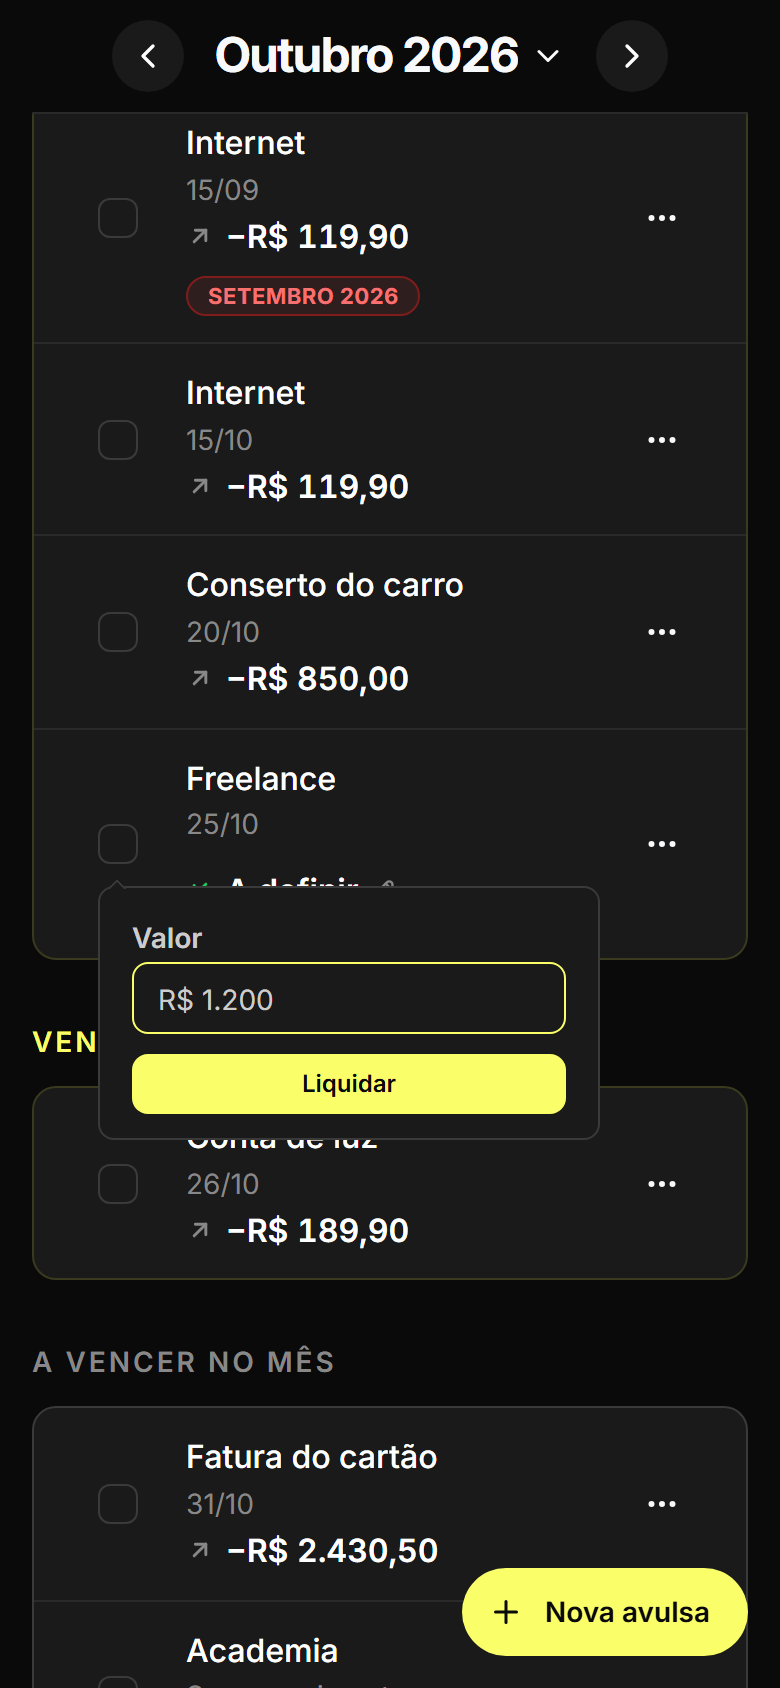
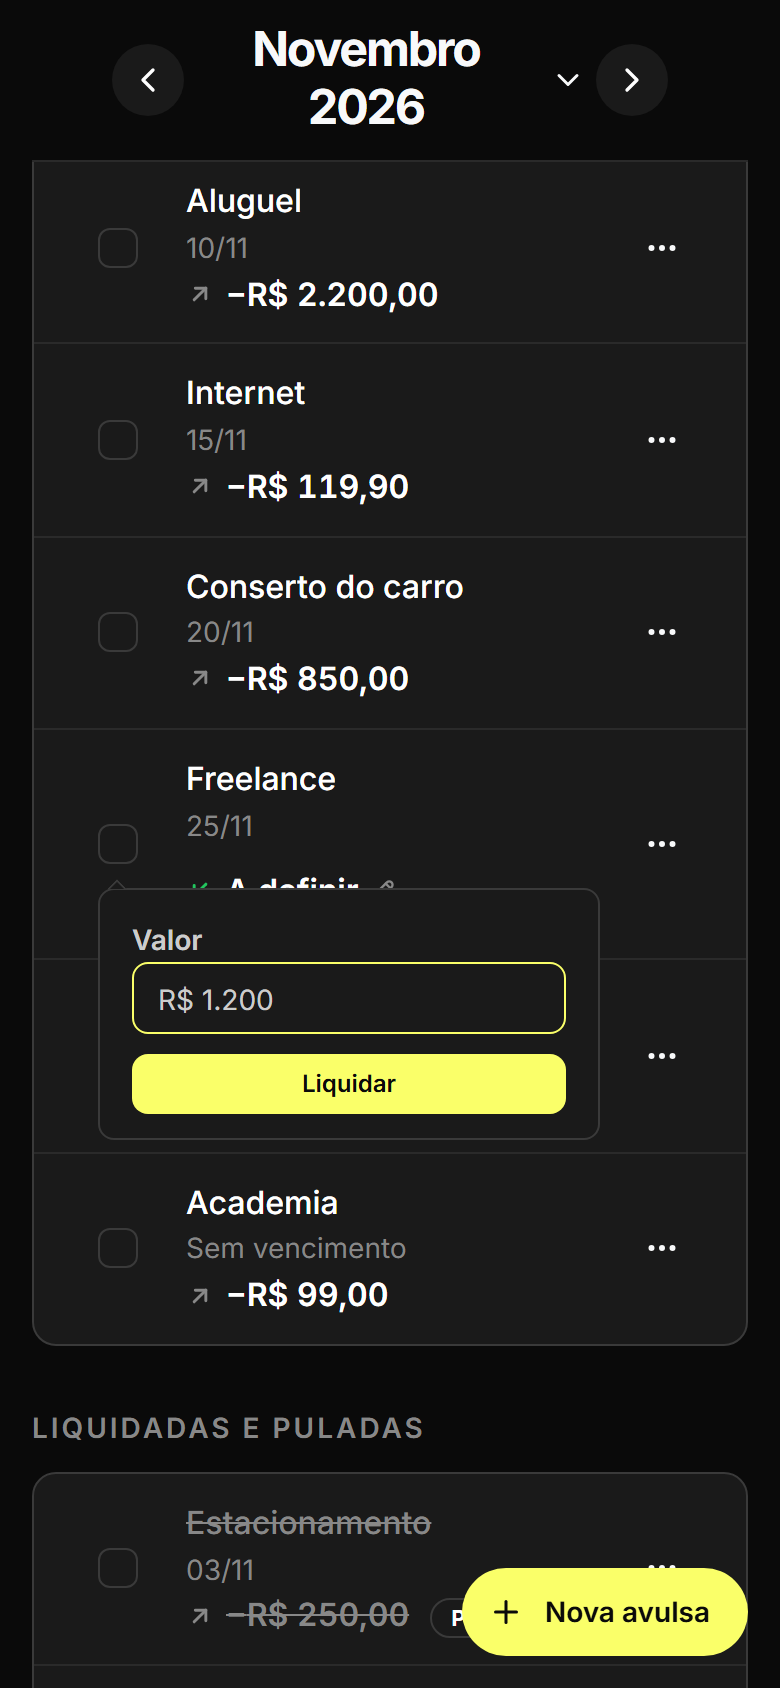
feat(web): strike through skipped occurrences (#103)
Their description and amount are struck through and dimmed, in the list
and the table; struck through and grey already means "left out" on the
trend's legend. A skipped occurrence asks for nothing, so its "A definir"
is plain text rather than the button.

diff --git a/apps/web/src/occurrence-row-parts.tsx b/apps/web/src/occurrence-row-parts.tsx
@@ -1,4 +1,12 @@
-import { Badge, Box, Button, Group, Text, VisuallyHidden } from "@mantine/core";
+import {
+  Badge,
+  Box,
+  Button,
+  Group,
+  Text,
+  VisuallyHidden,
+  type TextProps,
+} from "@mantine/core";
 import {
   directionLabel,
   type PeriodItem,
@@ -74,9 +82,23 @@ export function FailureNotice({
   );
 }
 
+/** The row's description; a skipped occurrence's is struck through and dimmed. */
+export function Description({
+  item,
+  ...props
+}: { item: PeriodItem } & TextProps) {
+  const skipped = item.status === "SKIPPED";
+  return (
+    <Text c={skipped ? "dimmed" : "bright"} fw={500} {...props}>
+      {skipped ? <s>{item.description}</s> : item.description}
+    </Text>
+  );
+}
+
 /**
  * The amount, led by a sign and an arrow so direction never rests on colour
- * alone; "A definir" is a button that opens the edit dialog to fill it in.
+ * alone; "A definir" is a button that opens the edit dialog to fill it in. A
+ * skipped occurrence's is struck through and dimmed, and asks for nothing.
  */
 export function Amount({
   item,
@@ -87,12 +109,25 @@ export function Amount({
   showDirection?: boolean;
 }) {
   const inflow = item.direction === "INFLOW";
+  const skipped = item.status === "SKIPPED";
   const direction = showDirection && (
     <>
-      <DirectionIcon inflow={inflow} />
+      <DirectionIcon inflow={inflow} dimmed={skipped} />
       <VisuallyHidden>{directionLabel(item)}</VisuallyHidden>
     </>
   );
+  if (skipped) {
+    return (
+      <Group gap={6} wrap="nowrap" className={classes.amount}>
+        {direction}
+        <Text fw={600} c="dimmed" span>
+          <s>
+            <AmountFigure item={item} />
+          </s>
+        </Text>
+      </Group>
+    );
+  }
   if (item.amount === null) {
     return (
       <EditOccurrenceButton
@@ -118,10 +153,19 @@ export function Amount({
     <Group gap={6} wrap="nowrap" className={classes.amount}>
       {direction}
       <Text fw={600} c={inflow ? "var(--mensal-color-inflow)" : "bright"} span>
-        <span aria-hidden="true">{inflow ? "+" : "−"}</span>
-        {formatAmount(item.amount)}
+        <AmountFigure item={item} />
       </Text>
     </Group>
+  );
+}
+
+function AmountFigure({ item }: { item: PeriodItem }) {
+  if (item.amount === null) return "A definir";
+  return (
+    <>
+      <span aria-hidden="true">{item.direction === "INFLOW" ? "+" : "−"}</span>
+      {formatAmount(item.amount)}
+    </>
   );
 }
 
@@ -150,13 +194,20 @@ export function RowMenu({
 }
 
 /** The arrow that leads an amount or a Tipo cell; never the only cue. */
-export function DirectionIcon({ inflow }: { inflow: boolean }) {
+export function DirectionIcon({
+  inflow,
+  dimmed = false,
+}: {
+  inflow: boolean;
+  /** Keeps the arrow of a skipped amount out of the inflow's colour. */
+  dimmed?: boolean;
+}) {
   const Icon = inflow ? IconArrowDownLeft : IconArrowUpRight;
   return (
     <Icon
       size={14}
       stroke={2.5}
-      color={inflow ? "var(--mensal-color-inflow)" : undefined}
+      color={inflow && !dimmed ? "var(--mensal-color-inflow)" : undefined}
       style={{ flex: "none", color: "var(--mantine-color-dimmed)" }}
       aria-hidden="true"
     />

diff --git a/apps/web/tests/groups.test.tsx b/apps/web/tests/groups.test.tsx
@@ -55,6 +55,61 @@ async function act(user: UserEvent, description: string, name: string) {
   );
 }
 
+/** The text struck through in the row `description`. */
+function struck(description: string) {
+  // Within a row: a notice about the change names it too.
+  const row = screen
+    .getByText(description, { selector: "li *" })
+    .closest("li")!;
+  return [...row.querySelectorAll("s")].map((text) =>
+    text.textContent?.replace(/\s/g, " ")
+  );
+}
+
+describe("a skipped occurrence", () => {
+  it("has its description and amount struck through, until it is resumed", async () => {
+    const user = userEvent.setup({ advanceTimers: vi.advanceTimersByTime });
+    api.addOccurrence(email, {
+      description: "Academia",
+      amount: 15000,
+      status: "SKIPPED",
+    });
+    api.addOccurrence(email, {
+      description: "Aluguel",
+      amount: 220000,
+      status: "SETTLED",
+      settledAt: "2026-10-09",
+    });
+    openApp(api, "/");
+    await screen.findByText("Academia");
+
+    expect(struck("Academia")).toEqual(["Academia", "−R$ 150,00"]);
+    expect(struck("Aluguel")).toEqual([]);
+
+    await act(user, "Academia", "Retomar");
+
+    await waitFor(() => expect(struck("Academia")).toEqual([]));
+  });
+
+  it("asks for no amount to be defined, and can still be edited", async () => {
+    api.addOccurrence(email, {
+      description: "Academia",
+      amount: null,
+      status: "SKIPPED",
+    });
+    openApp(api, "/");
+    await screen.findByText("Academia");
+
+    expect(struck("Academia")).toEqual(["Academia", "A definir"]);
+    expect(
+      screen.queryByRole("button", { name: "Definir valor de Academia" })
+    ).toBeNull();
+    expect(
+      screen.getByRole("button", { name: "Editar Academia" })
+    ).toBeInTheDocument();
+  });
+});
+
 describe("the month's groups", () => {
   it("groups the occurrences into overdue, due today, upcoming, and settled or skipped, in that order", async () => {
     api.addOccurrence(email, {

diff --git a/apps/web/tests/table-view.test.tsx b/apps/web/tests/table-view.test.tsx
@@ -151,6 +151,35 @@ describe("the table", () => {
     api.setPreferences(email, { occurrenceView: "table" });
   });
 
+  it("strikes through only the description and amount of a skipped occurrence", async () => {
+    api.addOccurrence(email, {
+      description: "Seguro",
+      amount: 15000,
+      dueDate: "2026-10-28",
+      status: "SKIPPED",
+    });
+    api.addOccurrence(email, {
+      description: "Salário",
+      direction: "INFLOW",
+      dueDate: null,
+      amount: 500000,
+      status: "SETTLED",
+      settledAt: "2026-10-05",
+    });
+    openApp(api, "/");
+
+    const [skipped, settled] = within(await screen.findByRole("table"))
+      .getAllByRole("row")
+      .slice(1);
+    const struck = (row: HTMLElement) =>
+      [...row.querySelectorAll("s")].map((text) =>
+        text.textContent?.replace(/\s/g, " ")
+      );
+
+    expect(struck(skipped!)).toEqual(["Seguro", "−R$ 150,00"]);
+    expect(struck(settled!)).toEqual([]);
+  });
+
   it("shows every column of each occurrence, in the list's group order", async () => {
     api.addOccurrence(email, {
       description: "Escola",

diff --git a/apps/web/src/occurrence-table.tsx b/apps/web/src/occurrence-table.tsx
@@ -1,4 +1,4 @@
-import { Badge, Box, Group, Paper, Table, Text } from "@mantine/core";
+import { Badge, Box, Group, Paper, Table } from "@mantine/core";
 import { VisuallyHidden } from "@mantine/core";
 import {
   directionLabel,
@@ -14,6 +14,7 @@ import { formatDate } from "./format.ts";
 import { occurrenceRows, type OccurrenceRow } from "./occurrence-rows.ts";
 import {
   Amount,
+  Description,
   DirectionIcon,
   FailureNotice,
   overdueBadge,
@@ -117,9 +118,7 @@ function TableRow({
         </Table.Td>
         <Table.Td>
           <EditOccurrenceButton item={item} className={classes.describe}>
-            <Text c="bright" fw={500} className={classes.clip}>
-              {item.description}
-            </Text>
+            <Description item={item} className={classes.clip} />
           </EditOccurrenceButton>
         </Table.Td>
         <Table.Td className={classes.nowrap}>

diff --git a/apps/web/src/month.tsx b/apps/web/src/month.tsx
@@ -51,6 +51,7 @@ import { NewOneOffButton } from "./new-one-off.tsx";
 import { groupOccurrences, type OccurrenceGroup } from "./occurrence-groups.ts";
 import {
   Amount,
+  Description,
   FailureNotice,
   RowMenu,
   StatusBadge,
@@ -649,9 +650,7 @@ function Row({
           <Box className={classes.text}>
             <EditOccurrenceButton item={item}>
               <Stack gap={0} miw={0}>
-                <Text c="bright" fw={500} truncate>
-                  {item.description}
-                </Text>
+                <Description item={item} truncate />
                 <Text fz="sm" c="dimmed">
                   {item.dueDate === null
                     ? "Sem vencimento"

diff --git a/apps/guide/index.html b/apps/guide/index.html
@@ -180,8 +180,9 @@
             </li>
             <li>
               Para pular a conta neste mês, abra o menu
-              <strong>⋯</strong> dela e escolha <strong>Pular</strong>. No mesmo
-              menu, <strong>Retomar</strong> desfaz o pulo.
+              <strong>⋯</strong> dela e escolha <strong>Pular</strong>. A conta
+              fica riscada em Liquidadas e puladas. No mesmo menu,
+              <strong>Retomar</strong> desfaz o pulo.
             </li>
             <li>
               Mudou de ideia? O aviso que aparece embaixo tem

diff --git a/DESIGN.md b/DESIGN.md
@@ -270,7 +270,7 @@ Every role above has a light counterpart, prefixed `light-`. The page is Paper C
 - **Figure** (`{typography.figure}`): summary amounts under Previsto and Realizado, in white.
 - **Title** (`{typography.title-sm}`): summary block titles (Entradas, Saídas).
 - **Row title** (`{typography.row-title}`): an occurrence's or recurrence's description, in white, truncated on one line.
-- **Amount** (`{typography.amount}`): the row's amount, never wrapping; emerald for inflows, white for outflows, "A definir" is white on a dashed underline with a pencil, a button that opens the edit dialog. Every amount carries a direction arrow and a +/− sign, so colour is never the only cue.
+- **Amount** (`{typography.amount}`): the row's amount, never wrapping; emerald for inflows, white for outflows, "A definir" is white on a dashed underline with a pencil, a button that opens the edit dialog. Every amount carries a direction arrow and a +/− sign, so colour is never the only cue. A skipped occurrence's description and amount are struck through in Pencil Grey, inflows included, and its "A definir" is plain text: struck through, grey means left out of the month, as on the trend's legend.
 - **Body** (`{typography.body-md}`): dialog copy and forms. The entity a dialog acts on is set in white at 600 inside the sentence, e.g. "**Aluguel** será liquidada por R$ 2.200,00."
 - **Small** (`{typography.body-sm}`): due dates, form hints and links on the auth screens, in Pencil Grey.
 - **Label** (`{typography.caption-uppercase}`): group headings (ATRASADAS, A VENCER NO MÊS) and the Previsto/Realizado labels. Uppercase, tracked 1.5px, Pencil Grey, or rose for Atrasadas.

diff --git a/docs/prd.md b/docs/prd.md
@@ -396,7 +396,7 @@ All UI text is Brazilian Portuguese, written directly in the components (no i18n
    - **Atrasadas**, including overdue occurrences from earlier periods (current period only), each labeled with its period;
    - **Vencem hoje**;
    - **A vencer no mês**, with pending occurrences without a due date at the end;
-   - **Liquidadas e puladas**.
+   - **Liquidadas e puladas**. A skipped occurrence has its description and amount struck through and dimmed, in the list and the table (§7.9); its badge and the other columns are unchanged, and "A definir" is plain text, not a button. Settled occurrences are never struck through.
 5. **Optimistic UI:** status changes update the screen instantly through TanStack Query, with rollback on failure.
 6. **Recurrences screen:** a second screen listing recurrences (filter active/all) with edit, end and delete actions. The same actions are reachable from an occurrence row.
 7. **One-off and recurrence dialog:** creating a one-off occurrence or a recurrence from the monthly screen.
